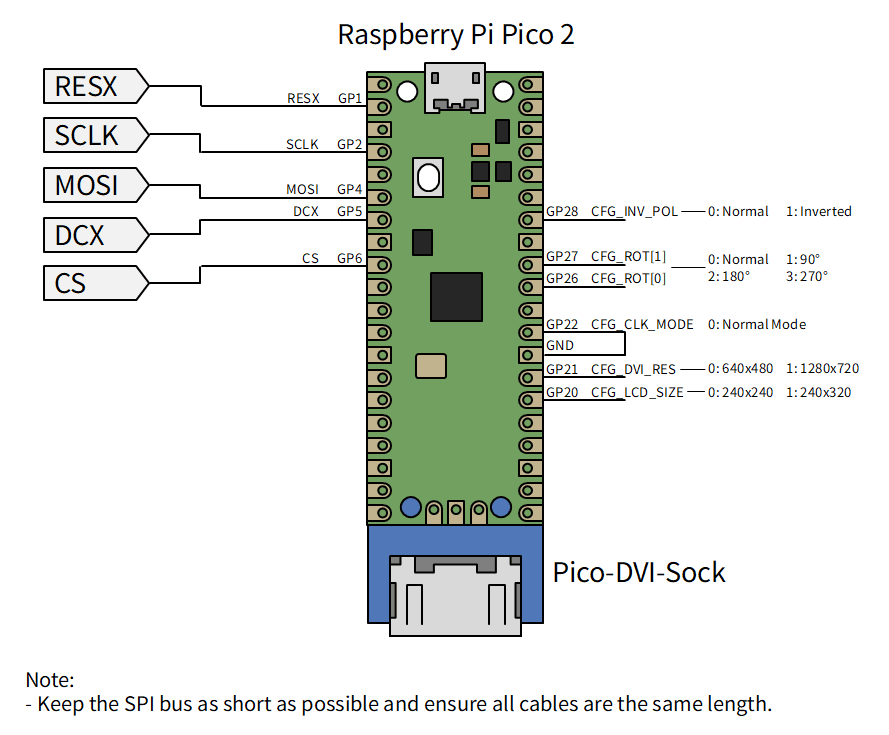
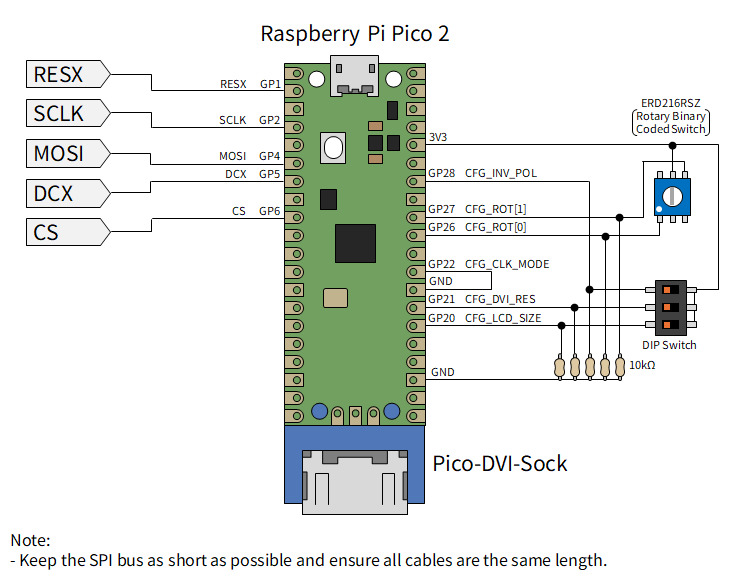
fix schematics

Changed region(s): [[0.031, 0.0308, 0.9622, 0.8923], [0.0, 0.8923, 0.8691, 0.9846]]

diff --git a/example/pico2_st7789/README.md b/example/pico2_st7789/README.md
@@ -21,6 +21,8 @@ Direct SPI slave connection — **no external ICs required**. Supports SPI clock
 
 ![](./image/schematic_normal.png)
 
+The rotary switch can be substituted with a DIP switch.
+
 | GPIO  | Direction | Function |
 |-------|-----------|----------|
 | 1     | IN        | RESX — hardware reset, active-low (pull-up on board) |
@@ -39,9 +41,11 @@ Direct SPI slave connection — **no external ICs required**. Supports SPI clock
 
 ### Fast Mode (GPIO 22 = HIGH)
 
+Parallel byte interface via external ICs — tested up to 62.5 MHz SPI clock.
+
 ![](./image/schematic_fast.png)
 
-Parallel byte interface via external ICs — tested up to 62.5 MHz SPI clock.
+The rotary switch can be substituted with a DIP switch.
 
 | GPIO  | Direction | Function |
 |-------|-----------|----------|

diff --git a/example/pico2_ssd1306/README.md b/example/pico2_ssd1306/README.md
@@ -4,7 +4,7 @@
 
 ![](./image/schematic.png)
 
-
+The rotary switch can be substituted with a DIP switch.
 
 ## Build instructions
 
